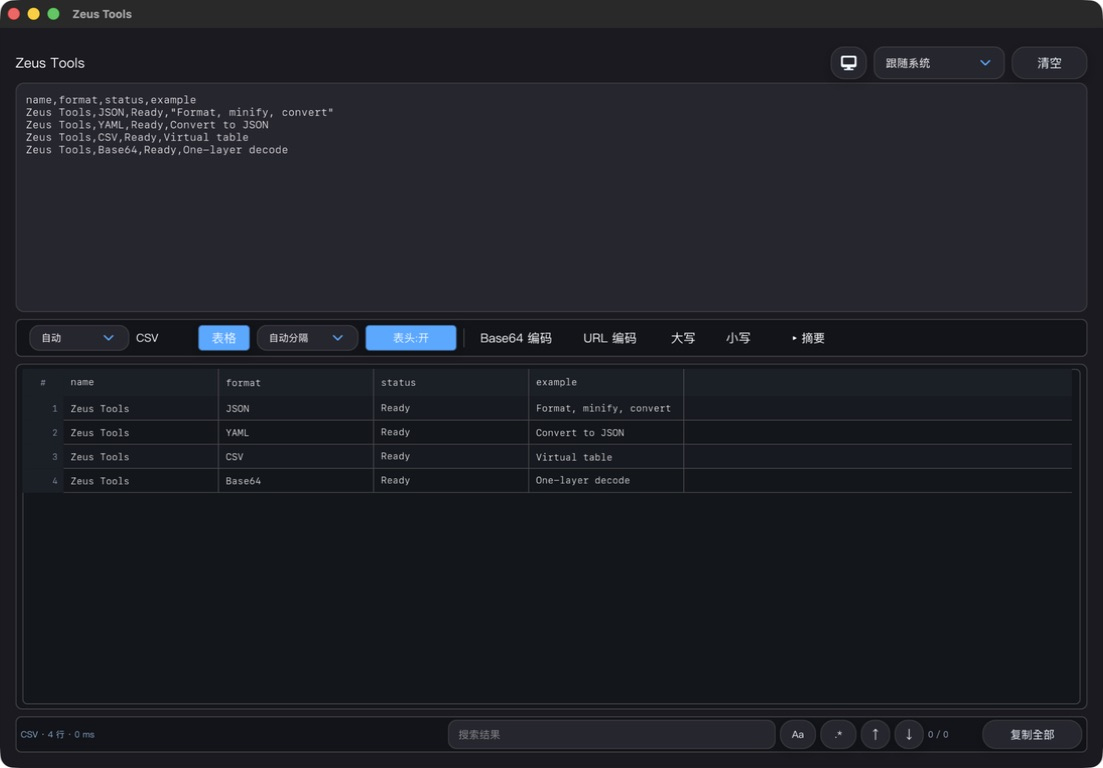
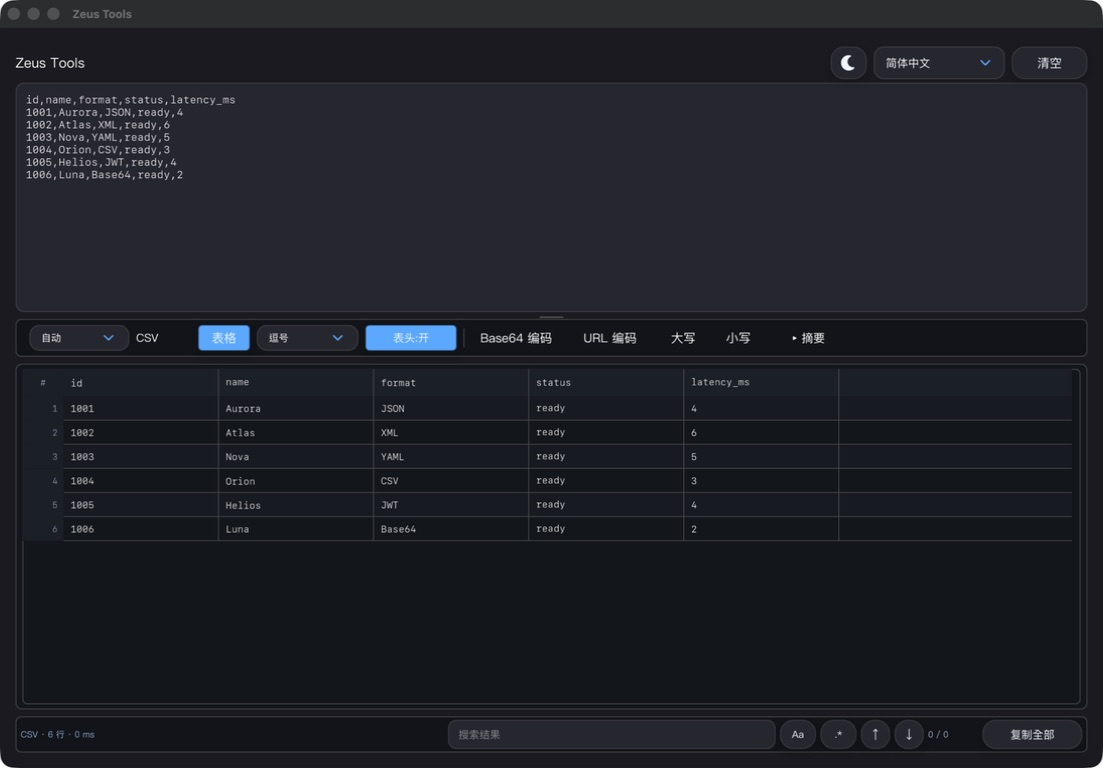
Harden background tasks and fix CSV parsing

diff --git a/src/app/app_controller.cpp b/src/app/app_controller.cpp
@@ -20,6 +20,7 @@
 #include <chrono>
 #include <cctype>
 #include <cstdint>
+#include <exception>
 #include <memory>
 #include <string>
 #include <thread>
@@ -37,6 +38,46 @@ AppState& app_state = app_state_storage;
 
 AppState& state() {
     return app_state_storage;
+}
+
+void initialize_documentation_scenario() {
+#ifdef ZEUS_DOCS_SCENARIO
+    static bool initialized = false;
+    if (initialized) return;
+    initialized = true;
+
+    const std::string scenario(ZEUS_DOCS_SCENARIO);
+    app_state.theme_preference_index = static_cast<int>(zeus::ThemePreference::Dark);
+    app_state.locale_preference_index = static_cast<int>(zeus::LocalePreference::Chinese);
+
+    if (scenario == "json") {
+        app_state.input_text =
+            R"({"service":"Zeus Tools","version":"0.1.0","offline":true,"formats":["JSON","XML","YAML","CSV"],"features":{"autoDetect":true,"decodeDepth":1,"theme":"system"},"limits":{"maxInputMb":10},"releasedAt":"2026-08-14T08:00:00Z"})";
+    } else if (scenario == "csv") {
+        app_state.input_text =
+            "id,name,format,status,latency_ms\n"
+            "1001,Aurora,JSON,ready,4\n"
+            "1002,Atlas,XML,ready,6\n"
+            "1003,Nova,YAML,ready,5\n"
+            "1004,Orion,CSV,ready,3\n"
+            "1005,Helios,JWT,ready,4\n"
+            "1006,Luna,Base64,ready,2";
+        app_state.csv.delimiter_index = 1;
+    } else if (scenario == "jwt") {
+        app_state.input_text =
+            "eyJhbGciOiJIUzI1NiIsInR5cCI6IkpXVCJ9."
+            "eyJzdWIiOiJkb2NzLXVzZXIiLCJuYW1lIjoiWmV1cyBEZW1vIiwicm9sZXMiOlsiZGV2ZWxvcGVyIiwicmV2aWV3ZXIiXSwib2ZmbGluZSI6dHJ1ZSwiaWF0IjoxNzg2Njk0NDAwfQ."
+            "docs-signature";
+    } else if (scenario == "hmac") {
+        app_state.input_text = "release=0.1.0&platform=desktop&offline=true";
+        app_state.result.detected_input_kind = zeus::ContentKind::Text;
+        app_state.crypto.panel_open = true;
+        app_state.crypto.hmac = true;
+        app_state.crypto.hmac_key = "docs-demo-key";
+        app_state.crypto.key_visible = false;
+        compute_crypto_output(zeus::DigestAlgorithm::Sha256);
+    }
+#endif
 }
 
 zeus::LocalePreference system_locale_preference() {
@@ -230,27 +271,40 @@ void update_search() {
     async::restart(
         "zeus.search.result",
         [query, case_sensitive, use_regex, document, csv](const async::CancelToken& token) {
-            for (int elapsed = 0; elapsed < 100 && !token.canceled(); elapsed += 20) {
-                std::this_thread::sleep_for(std::chrono::milliseconds(20));
-            }
             SearchPayload payload;
             payload.query = query;
             payload.case_sensitive = case_sensitive;
             payload.use_regex = use_regex;
             payload.document_source = document;
             payload.csv_source = csv;
-            if (token.canceled()) return payload;
-            if (csv) {
-                payload.csv_matches = csv->search(
-                    query, case_sensitive, use_regex, &payload.error);
-            } else if (document) {
-                payload.document_matches = document->search(
-                    query, case_sensitive, use_regex, &payload.error);
+            try {
+                for (int elapsed = 0; elapsed < 100 && !token.canceled(); elapsed += 20) {
+                    std::this_thread::sleep_for(std::chrono::milliseconds(20));
+                }
+                if (token.canceled()) return async::success(std::move(payload));
+                if (csv) {
+                    payload.csv_matches = csv->search(
+                        query, case_sensitive, use_regex, &payload.error);
+                } else if (document) {
+                    payload.document_matches = document->search(
+                        query, case_sensitive, use_regex, &payload.error);
+                }
+                return async::success(std::move(payload));
+            } catch (const std::exception& exception) {
+                return async::failure<SearchPayload>(exception.what());
+            } catch (...) {
+                return async::failure<SearchPayload>("Unknown background search error");
             }
-            return payload;
         },
         [](const async::Result<SearchPayload>& completed) {
-            if (!completed.ok || completed.value.query != app_state.search.query ||
+            if (!completed.ok) {
+                app_state.search.issue = tr(i18n::Text::Invalid);
+                app_state.search.issue_detail = completed.error.empty()
+                    ? "Background search failed" : completed.error;
+                core::platform::requestUiUpdate();
+                return;
+            }
+            if (completed.value.query != app_state.search.query ||
                 completed.value.case_sensitive != app_state.search.case_sensitive ||
                 completed.value.use_regex != app_state.search.use_regex) return;
             const auto& payload = completed.value;
@@ -313,17 +367,35 @@ void analyze_input(bool debounce) {
     async::restart(
         "zeus.process.input",
         [request = std::move(request), debounce](const async::CancelToken& token) {
-            if (debounce) {
-                for (int elapsed = 0; elapsed < 180 && !token.canceled(); elapsed += 20) {
-                    std::this_thread::sleep_for(std::chrono::milliseconds(20));
+            try {
+                if (debounce) {
+                    for (int elapsed = 0; elapsed < 180 && !token.canceled(); elapsed += 20) {
+                        std::this_thread::sleep_for(std::chrono::milliseconds(20));
+                    }
                 }
+                if (token.canceled()) {
+                    return async::success(processing::AnalysisResult{});
+                }
+                auto result = processing::analyze(request);
+                return async::success(token.canceled()
+                    ? processing::AnalysisResult{} : std::move(result));
+            } catch (const std::exception& exception) {
+                return async::failure<processing::AnalysisResult>(exception.what());
+            } catch (...) {
+                return async::failure<processing::AnalysisResult>(
+                    "Unknown background processing error");
             }
-            if (token.canceled()) return processing::AnalysisResult{};
-            auto result = processing::analyze(request);
-            return token.canceled() ? processing::AnalysisResult{} : std::move(result);
         },
         [](const async::Result<processing::AnalysisResult>& completed) {
-            if (!completed.ok || !completed.value.document) return;
+            if (!completed.ok) {
+                app_state.result.issue = tr(i18n::Text::Invalid);
+                app_state.result.issue_detail = completed.error.empty()
+                    ? "Background processing failed" : completed.error;
+                app_state.result.status = tr(i18n::Text::Invalid);
+                request_full_repaint();
+                return;
+            }
+            if (!completed.value.document) return;
             const processing::AnalysisResult& payload = completed.value;
             app_state.result.detected_input_kind = payload.detected;
             reset_result_interaction_state();
@@ -380,12 +452,30 @@ void continue_decode_one_layer() {
     async::restart(
         "zeus.process.input",
         [source, previous_chain](const async::CancelToken& token) {
-            if (token.canceled()) return processing::DecodeResult{};
-            auto result = processing::decode_one_layer(source, previous_chain);
-            return token.canceled() ? processing::DecodeResult{} : std::move(result);
+            try {
+                if (token.canceled()) {
+                    return async::success(processing::DecodeResult{});
+                }
+                auto result = processing::decode_one_layer(source, previous_chain);
+                return async::success(token.canceled()
+                    ? processing::DecodeResult{} : std::move(result));
+            } catch (const std::exception& exception) {
+                return async::failure<processing::DecodeResult>(exception.what());
+            } catch (...) {
+                return async::failure<processing::DecodeResult>(
+                    "Unknown background decoding error");
+            }
         },
         [](const async::Result<processing::DecodeResult>& completed) {
-            if (!completed.ok || completed.value.source != app_state.result.value) return;
+            if (!completed.ok) {
+                app_state.result.issue = tr(i18n::Text::Invalid);
+                app_state.result.issue_detail = completed.error.empty()
+                    ? "Background decoding failed" : completed.error;
+                app_state.result.status = tr(i18n::Text::Invalid);
+                request_full_repaint();
+                return;
+            }
+            if (completed.value.source != app_state.result.value) return;
             const processing::DecodeResult& payload = completed.value;
             if (!payload.process.ok || !payload.document) {
                 app_state.result.issue = compact_issue(payload.process.error_message);
@@ -466,12 +556,28 @@ void compute_crypto_output(zeus::DigestAlgorithm algorithm) {
     const bool use_result = app_state.crypto.message_source_index == 1 &&
         !app_state.result.value.empty();
     const std::string& message = use_result ? app_state.result.value : app_state.input_text;
-    const zeus::CryptoResult result = app_state.crypto.hmac
-        ? zeus::compute_hmac_encoded(message, app_state.crypto.hmac_key, hmac_key_encoding(), algorithm)
-        : zeus::compute_digest(message, algorithm);
     const std::string name = app_state.crypto.hmac
         ? "HMAC-" + std::string(zeus::digest_algorithm_name(algorithm))
         : zeus::digest_algorithm_name(algorithm);
+    zeus::CryptoResult result;
+    try {
+        result = app_state.crypto.hmac
+            ? zeus::compute_hmac_encoded(
+                  message, app_state.crypto.hmac_key, hmac_key_encoding(), algorithm)
+            : zeus::compute_digest(message, algorithm);
+    } catch (const std::exception& exception) {
+        app_state.result.issue = tr(i18n::Text::Invalid);
+        app_state.result.issue_detail = exception.what();
+        app_state.result.status = name;
+        request_full_repaint();
+        return;
+    } catch (...) {
+        app_state.result.issue = tr(i18n::Text::Invalid);
+        app_state.result.issue_detail = "Unknown crypto processing error";
+        app_state.result.status = name;
+        request_full_repaint();
+        return;
+    }
     if (!result.ok) {
         app_state.result.issue = compact_issue(result.error);
         app_state.result.issue_detail = result.error;

diff --git a/src/app/processing_service.cpp b/src/app/processing_service.cpp
@@ -109,19 +109,40 @@ AnalysisResult analyze(const AnalysisRequest& request) {
     output.process = action_mode == zeus::ProcessingMode::Auto
         ? base_result : zeus::process_text(request.input, action_mode);
 
-    if (output.process.tabular) {
-        const std::string& table_source = output.process.value.empty()
-            ? request.input : output.process.value;
-        const char delimiter = request.action_index == 15
+    const bool csv_requested = override_mode == zeus::ProcessingMode::Csv ||
+        action_mode == zeus::ProcessingMode::Csv;
+    const bool converted_to_csv = action_mode == zeus::ProcessingMode::JsonToCsv;
+    if (csv_requested || output.process.tabular) {
+        // Parse user CSV from the original text. process_text normalizes a
+        // detected CSV to TSV, so parsing output.process.value with the user's
+        // comma/semicolon choice would incorrectly reject a valid table.
+        const std::string& table_source = converted_to_csv
+            ? output.process.value : request.input;
+        const char delimiter = converted_to_csv
             ? ',' : csv_delimiter_for(request.csv_delimiter_index);
         const auto parsed = zeus::parse_csv(table_source, delimiter, true);
         if (parsed.ok) {
             output.csv = std::make_shared<zeus::CsvDocument>(parsed.document);
+            output.detected = zeus::ContentKind::Csv;
+            output.process.ok = true;
+            output.process.detected = zeus::ContentKind::Csv;
+            output.process.label = converted_to_csv ? "JSON → CSV" : "CSV";
+            output.process.value = parsed.document.to_tsv();
+            output.process.error_code.clear();
+            output.process.error_message.clear();
+            output.process.error_line = 0;
+            output.process.error_column = 0;
+            output.process.structured = false;
+            output.process.tabular = true;
         } else {
             output.process.ok = false;
+            output.process.detected = zeus::ContentKind::Csv;
             output.process.label = "CSV";
             output.process.error_code = "CSV_PARSE_ERROR";
             output.process.error_message = parsed.error;
+            output.process.value = request.input;
+            output.process.structured = false;
+            output.process.tabular = false;
         }
     }
 

diff --git a/tests/app_processing_tests.cpp b/tests/app_processing_tests.cpp
@@ -37,6 +37,28 @@ void test_csv_analysis() {
     expect(result.first_row_header, "CSV header preference should be retained");
 }
 
+void test_csv_manual_delimiters_use_original_input() {
+    app::processing::AnalysisRequest comma_request;
+    comma_request.input = "name,value\nZeus,1\nHera,2";
+    comma_request.action_index = 4;
+    comma_request.csv_delimiter_index = 1;
+    const auto comma = app::processing::analyze(comma_request);
+    expect(comma.process.ok && comma.csv != nullptr,
+           "manual comma CSV should parse the original input");
+    expect(comma.csv->delimiter == ',' && comma.csv->rows[1][1] == "1",
+           "manual comma CSV should retain comma-separated cells");
+
+    app::processing::AnalysisRequest semicolon_request;
+    semicolon_request.input = "name;value\nZeus;1\nHera;2";
+    semicolon_request.input_override_index = 4;
+    semicolon_request.csv_delimiter_index = 3;
+    const auto semicolon = app::processing::analyze(semicolon_request);
+    expect(semicolon.process.ok && semicolon.csv != nullptr,
+           "CSV override should honor a manually selected delimiter");
+    expect(semicolon.csv->delimiter == ';' && semicolon.csv->rows[2][0] == "Hera",
+           "manual semicolon CSV should retain semicolon-separated cells");
+}
+
 void test_input_override() {
     app::processing::AnalysisRequest request;
     request.input = "name: Zeus\nenabled: true";
@@ -66,6 +88,7 @@ void test_decode_one_layer() {
 int main() {
     test_json_analysis();
     test_csv_analysis();
+    test_csv_manual_delimiters_use_original_input();
     test_input_override();
     test_decode_one_layer();
     std::cout << "All app processing tests passed.\n";

diff --git a/src/app/main_view.cpp b/src/app/main_view.cpp
@@ -23,6 +23,7 @@ AppState& app_state = controller::state();
 } // namespace
 
 void compose(eui::Ui& ui, const eui::Screen& screen) {
+    controller::initialize_documentation_scenario();
     if (!app_state.result.document) {
         app_state.result.document = std::make_shared<zeus::HighlightedDocument>(
             zeus::HighlightedDocument::plain(""));

diff --git a/src/app/app_controller.h b/src/app/app_controller.h
@@ -14,6 +14,7 @@
 namespace app::controller {
 
 AppState& state();
+void initialize_documentation_scenario();
 
 const char* tr(i18n::Text text);
 const char* theme_label();

diff --git a/docs/development.md b/docs/development.md
@@ -125,6 +125,10 @@ scripts/            可重复执行的资源生成脚本
 `processing_service.cpp` 负责不依赖 EUI 的输入分析与单层解码。
 自定义富文本和 CSV 控件不包含 EUI 的应用实现头，以避免多翻译单元重复定义。
 
+更新 README 截图时，可通过 CMake 缓存参数 `ZEUS_DOCS_SCENARIO` 启动只使用
+合成数据的固定场景：`json`、`csv`、`jwt` 或 `hmac`。该值未设置时，合成数据
+不会编译进应用，也不会改变正常发行行为。
+
 ## 隐私约束
 
 - 禁止把原始输入、格式化结果、搜索内容或未来的 HMAC 密钥写入日志。

diff --git a/README.md b/README.md
@@ -49,6 +49,10 @@ macOS and Windows.
   </tr>
 </table>
 
+### JWT inspection
+
+![Zeus Tools decoding a JWT header and payload](docs/assets/jwt-inspect.jpg)
+
 Screenshots use synthetic data and show the current macOS alpha UI. Platform
 font rendering may differ on Windows.
 

diff --git a/README_zh-CN.md b/README_zh-CN.md
@@ -48,6 +48,10 @@ Windows。
   </tr>
 </table>
 
+### JWT 查看
+
+![Zeus Tools 解码 JWT Header 与 Payload](docs/assets/jwt-inspect.jpg)
+
 截图使用合成数据，展示的是当前 macOS Alpha 界面。Windows 上的字体渲染
 可能有所不同。
 
